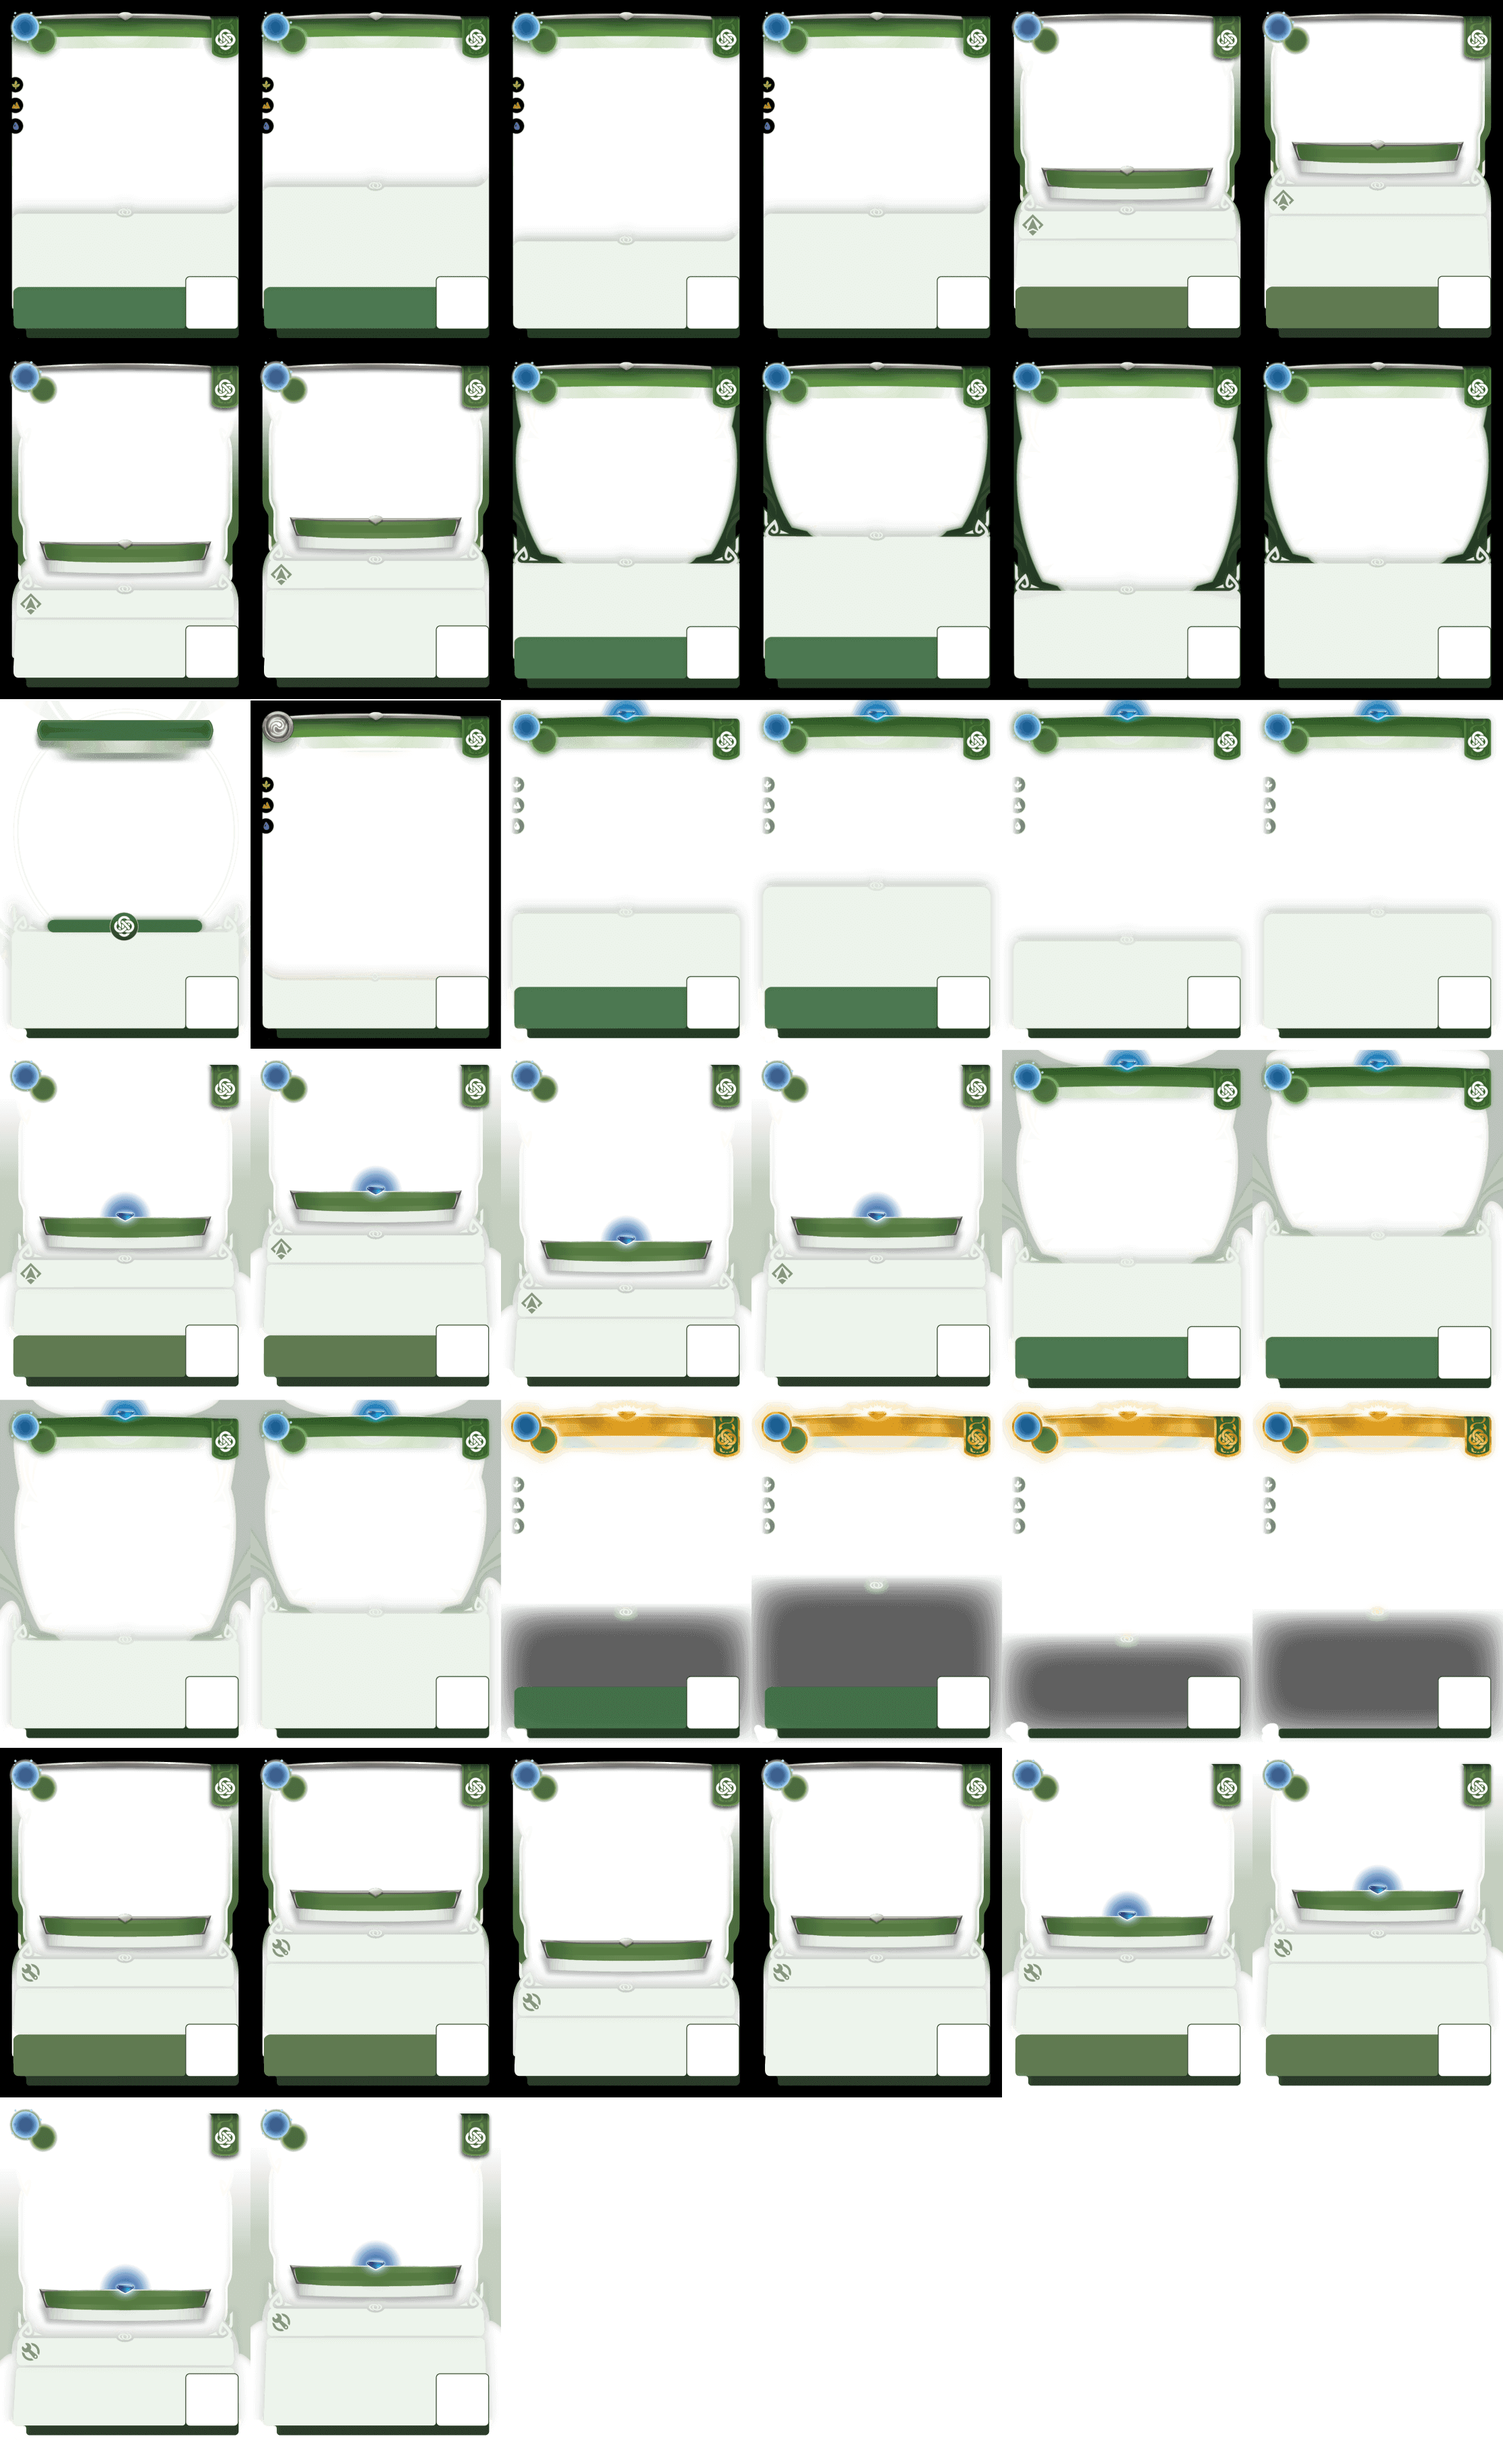
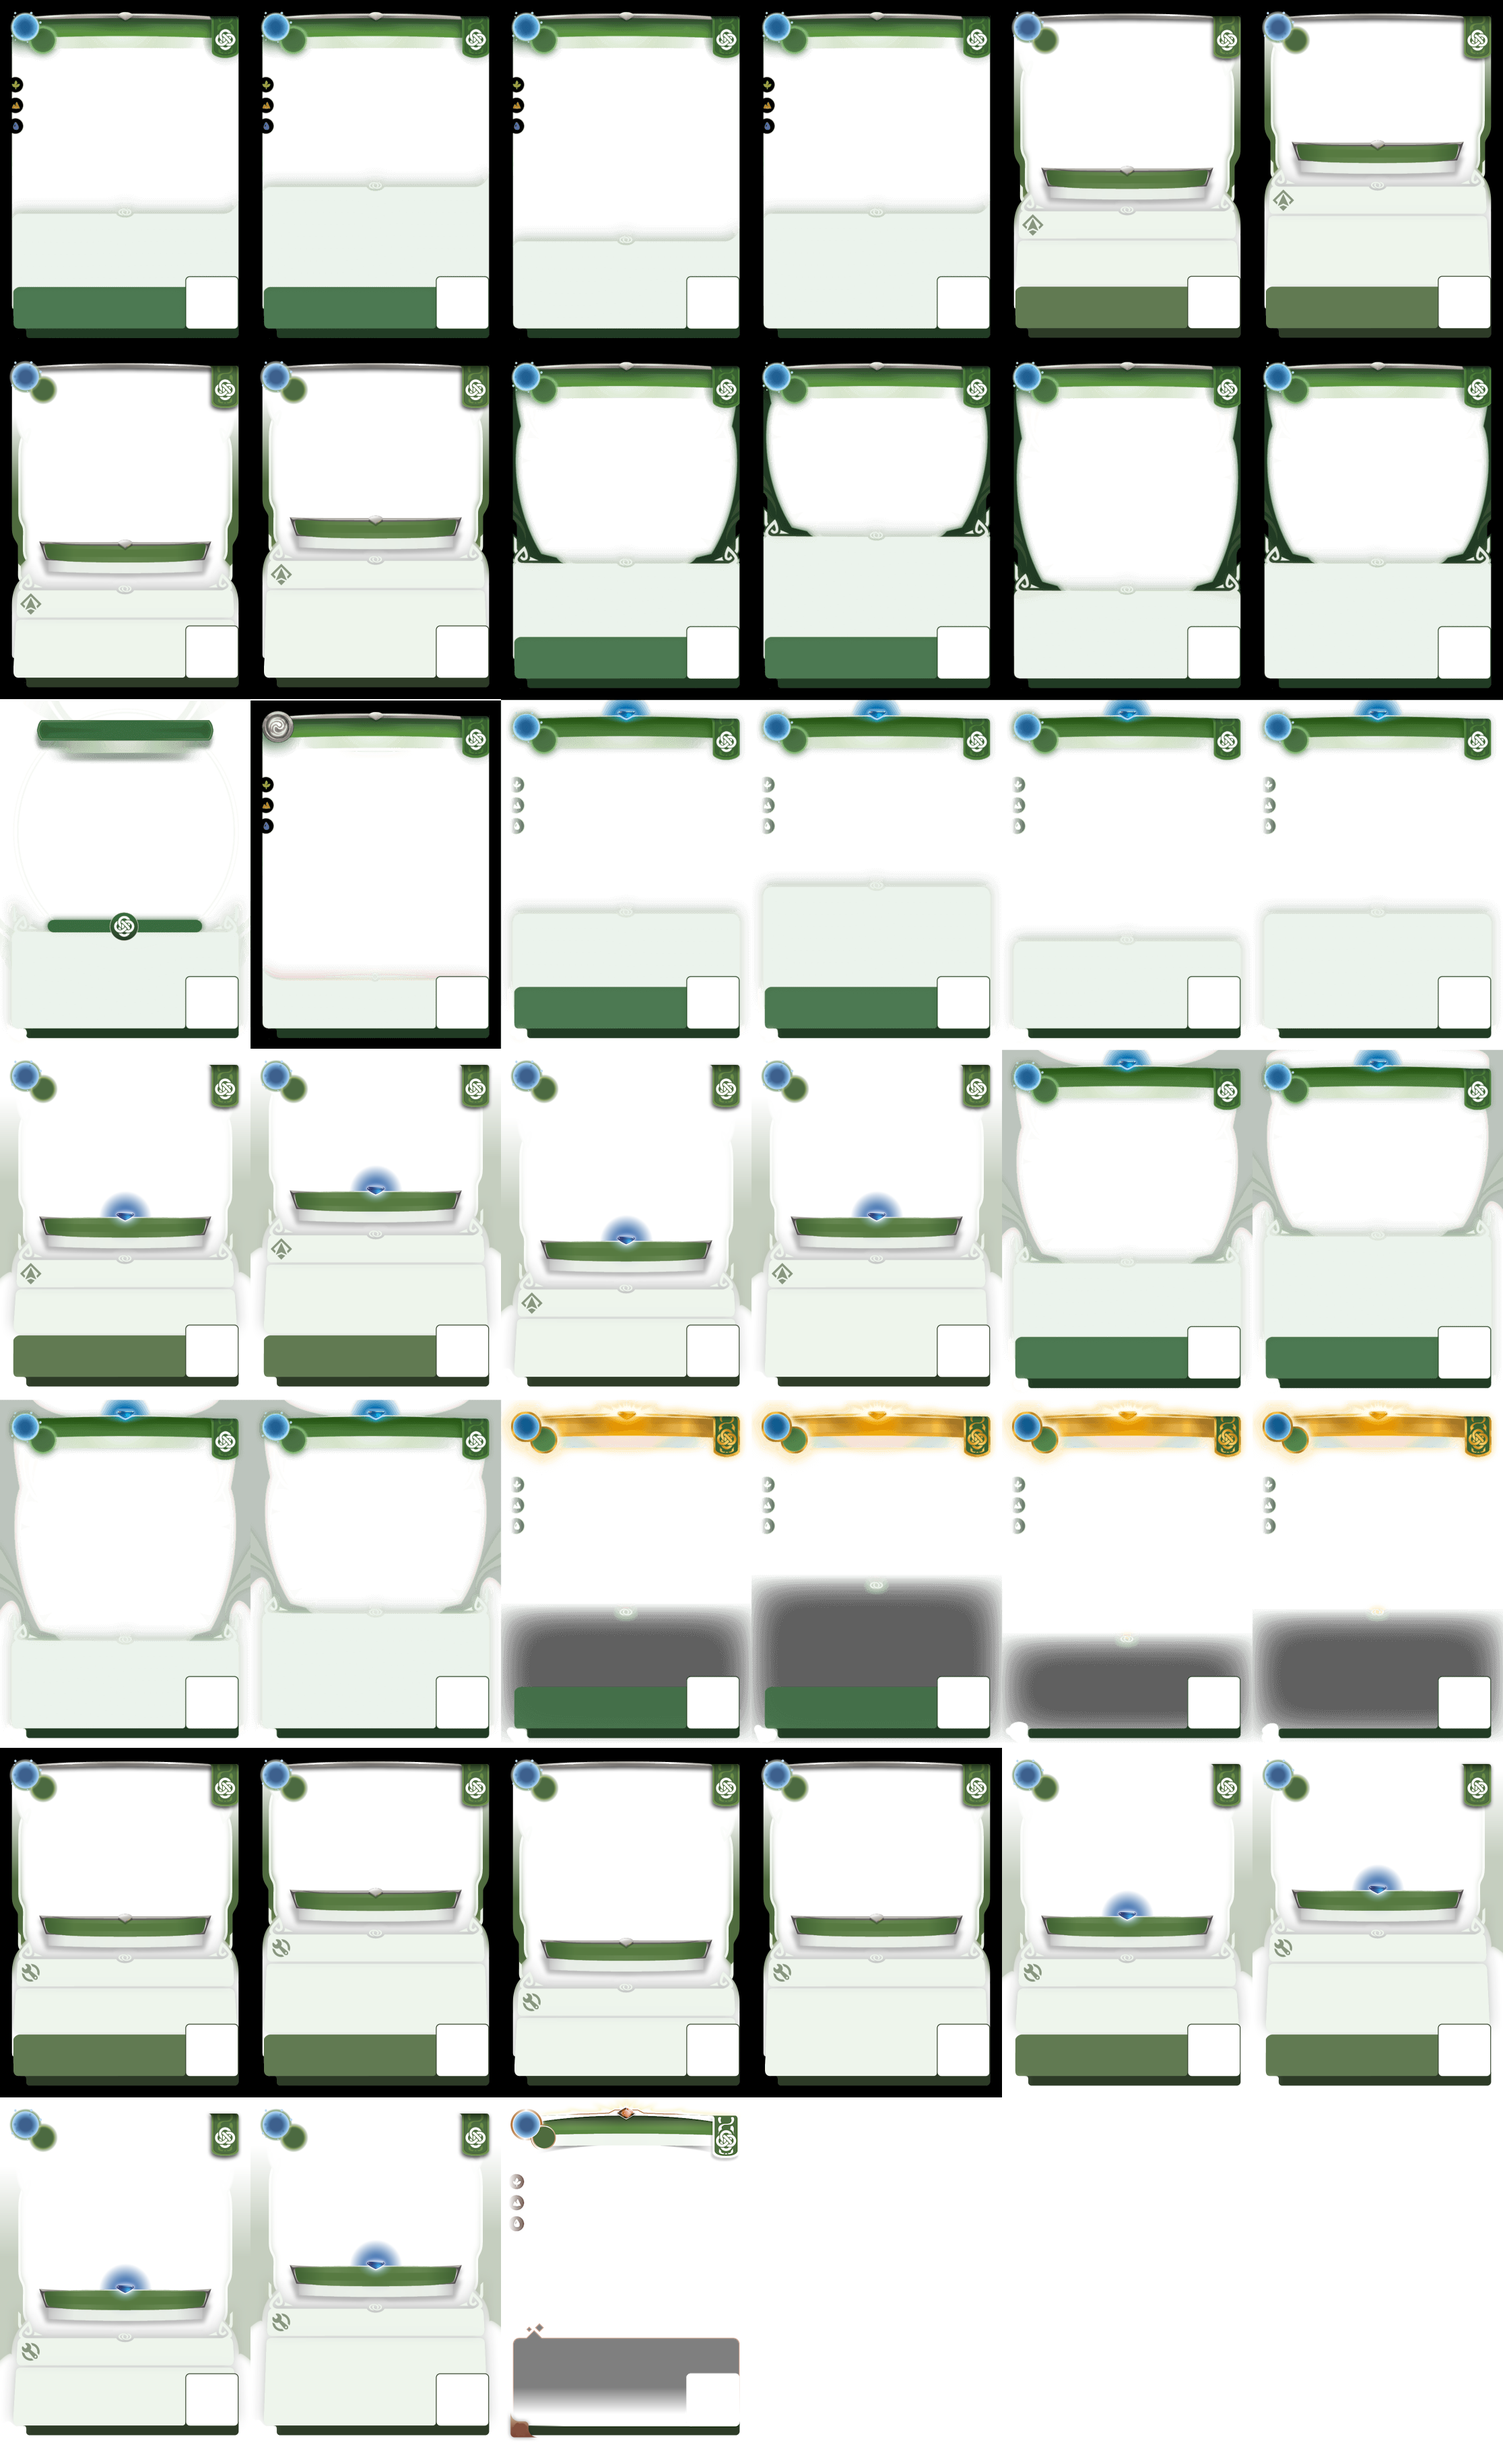
frame exalted et gestion

diff --git a/altered.css b/altered.css
@@ -7518,6 +7518,18 @@ html {
 .altered-card .altered-card-wrapper .card-frame[data-type=character][data-rarity="2"][data-support="1"][data-size="2"] {
   background-position: 60% 66.66666%;
 }
+.altered-card .altered-card-wrapper .card-frame[data-type=character][data-rarity="3"][data-support="0"][data-size="1"] {
+  background-position: 40% 100%;
+}
+.altered-card .altered-card-wrapper .card-frame[data-type=character][data-rarity="3"][data-support="0"][data-size="2"] {
+  background-position: 40% 100%;
+}
+.altered-card .altered-card-wrapper .card-frame[data-type=character][data-rarity="3"][data-support="1"][data-size="1"] {
+  background-position: 40% 100%;
+}
+.altered-card .altered-card-wrapper .card-frame[data-type=character][data-rarity="3"][data-support="1"][data-size="2"] {
+  background-position: 40% 100%;
+}
 .altered-card .altered-card-wrapper .card-frame[data-type=spell][data-rarity="0"][data-support="0"][data-size="1"] {
   background-position: 80% 16.66666%;
 }
@@ -7908,6 +7920,15 @@ html {
 }
 .altered-card .altered-card-wrapper .card-frame[data-type=token] ~ .card-text .card-qrcode-container {
   shape-outside: polygon(0px 0px, 0px 53px, 70px 52px, 70px 0px);
+}
+.altered-card .altered-card-wrapper .card-frame[data-rarity="3"][data-size="2"][data-support="0"] ~ .card-text {
+  color: white;
+}
+.altered-card .altered-card-wrapper .card-frame[data-rarity="3"][data-size="2"][data-support="0"] ~ .card-text .card-qrcode-container {
+  shape-outside: polygon(0px 70px, 0px 126px, 70px 126px, 70px 70px);
+}
+.altered-card .altered-card-wrapper .card-frame[data-rarity="3"][data-size="2"][data-support="0"] ~ .card-text .svgicon-mana-1 .path2:before {
+  color: black;
 }
 .altered-card .altered-card-wrapper .card-frame[data-type=permanent] ~ .card-text {
   left: 25px;

diff --git a/modules/css/cards.scss b/modules/css/cards.scss
@@ -344,6 +344,26 @@
                         background-position: 60% 66.66666%;
                     }
                 }
+
+                // EXALTED
+                &[data-rarity="3"] {
+                    // Small frame, no SUPPORT
+                    &[data-support="0"][data-size="1"] {
+                        background-position: 40% 100%;
+                    }
+                    // Bigger frame, no SUPPORT
+                    &[data-support="0"][data-size="2"] {
+                        background-position: 40% 100%;
+                    }
+                    // Small frame, with SUPPORT
+                    &[data-support="1"][data-size="1"] {
+                        background-position: 40% 100%;
+                    }
+                    // Bigger frame, with SUPPORT
+                    &[data-support="1"][data-size="2"] {
+                        background-position: 40% 100%;
+                    }
+                }
             }
             &[data-type="spell"] {
                 // BASE
@@ -833,6 +853,15 @@
             height: 54px;
             .card-qrcode-container {
                 shape-outside: polygon(0px 0px, 0px 53px, 70px 52px, 70px 0px);
+            }
+        }
+        .card-frame[data-rarity="3"][data-size="2"][data-support="0"] ~ .card-text {
+            color: white;
+            .card-qrcode-container {
+                shape-outside: polygon(0px 70px, 0px 126px, 70px 126px, 70px 70px);
+            }
+           .svgicon-mana-1 .path2:before {
+                color: black;
             }
         }
 

diff --git a/modules/php/Cards/cards.inc.php b/modules/php/Cards/cards.inc.php
@@ -1877,7 +1877,6 @@ const MAP_REFS_CLASSES = [
   'ALT_DUSTER_B_AX_92_C' => 'AX/AX_Common_RekaBioengineer',
   'ALT_DUSTER_B_AX_92_R1' => 'AX/AX_Rare_RekaBioengineer',
   'ALT_DUSTER_B_AX_92_R2' => 'YZ/YZ_Rare_RekaBioengineer',
-  'ALT_DUSTER_B_AX_95_C' => 'AX/AX_Common_SphuraRekaHexarch',
   'ALT_DUSTER_B_AX_95_E' => 'AX/AX_Exalted_SphuraRekaHexarch',
   'ALT_DUSTER_B_AX_90_C' => 'AX/AX_Common_ThomasEdison',
   'ALT_DUSTER_B_AX_90_R1' => 'AX/AX_Rare_ThomasEdison',

diff --git a/modules/php/Managers/Cards.php b/modules/php/Managers/Cards.php
@@ -54,6 +54,7 @@ class Cards extends \ALT\Helpers\CachedPieces
       RARITY_COMMON => 'Common',
       RARITY_RARE => 'Rare',
       RARITY_UNIQUE => 'Unique',
+      RARITY_EXALTED => 'Exalted',
     ];
     $p = json_decode($data['properties'], true);
     $faction = $p['faction'];

diff --git a/altered.game.php b/altered.game.php
@@ -25,6 +25,7 @@ $swdNamespaceAutoload = function ($class) {
     if (file_exists($file)) {
       require_once $file;
     } else {
+      var_dump(debug_print_backtrace());
       var_dump('Cannot find file : ' . $file);
     }
   }

diff --git a/modules/php/constants.inc.php b/modules/php/constants.inc.php
@@ -238,6 +238,7 @@ const STORM_BACK = 6;
 const RARITY_COMMON = 0;
 const RARITY_RARE = 1;
 const RARITY_UNIQUE = 2;
+const RARITY_EXALTED = 3;
 
 const FACTION_AX = 'AX';
 const FACTION_BR = 'BR';
